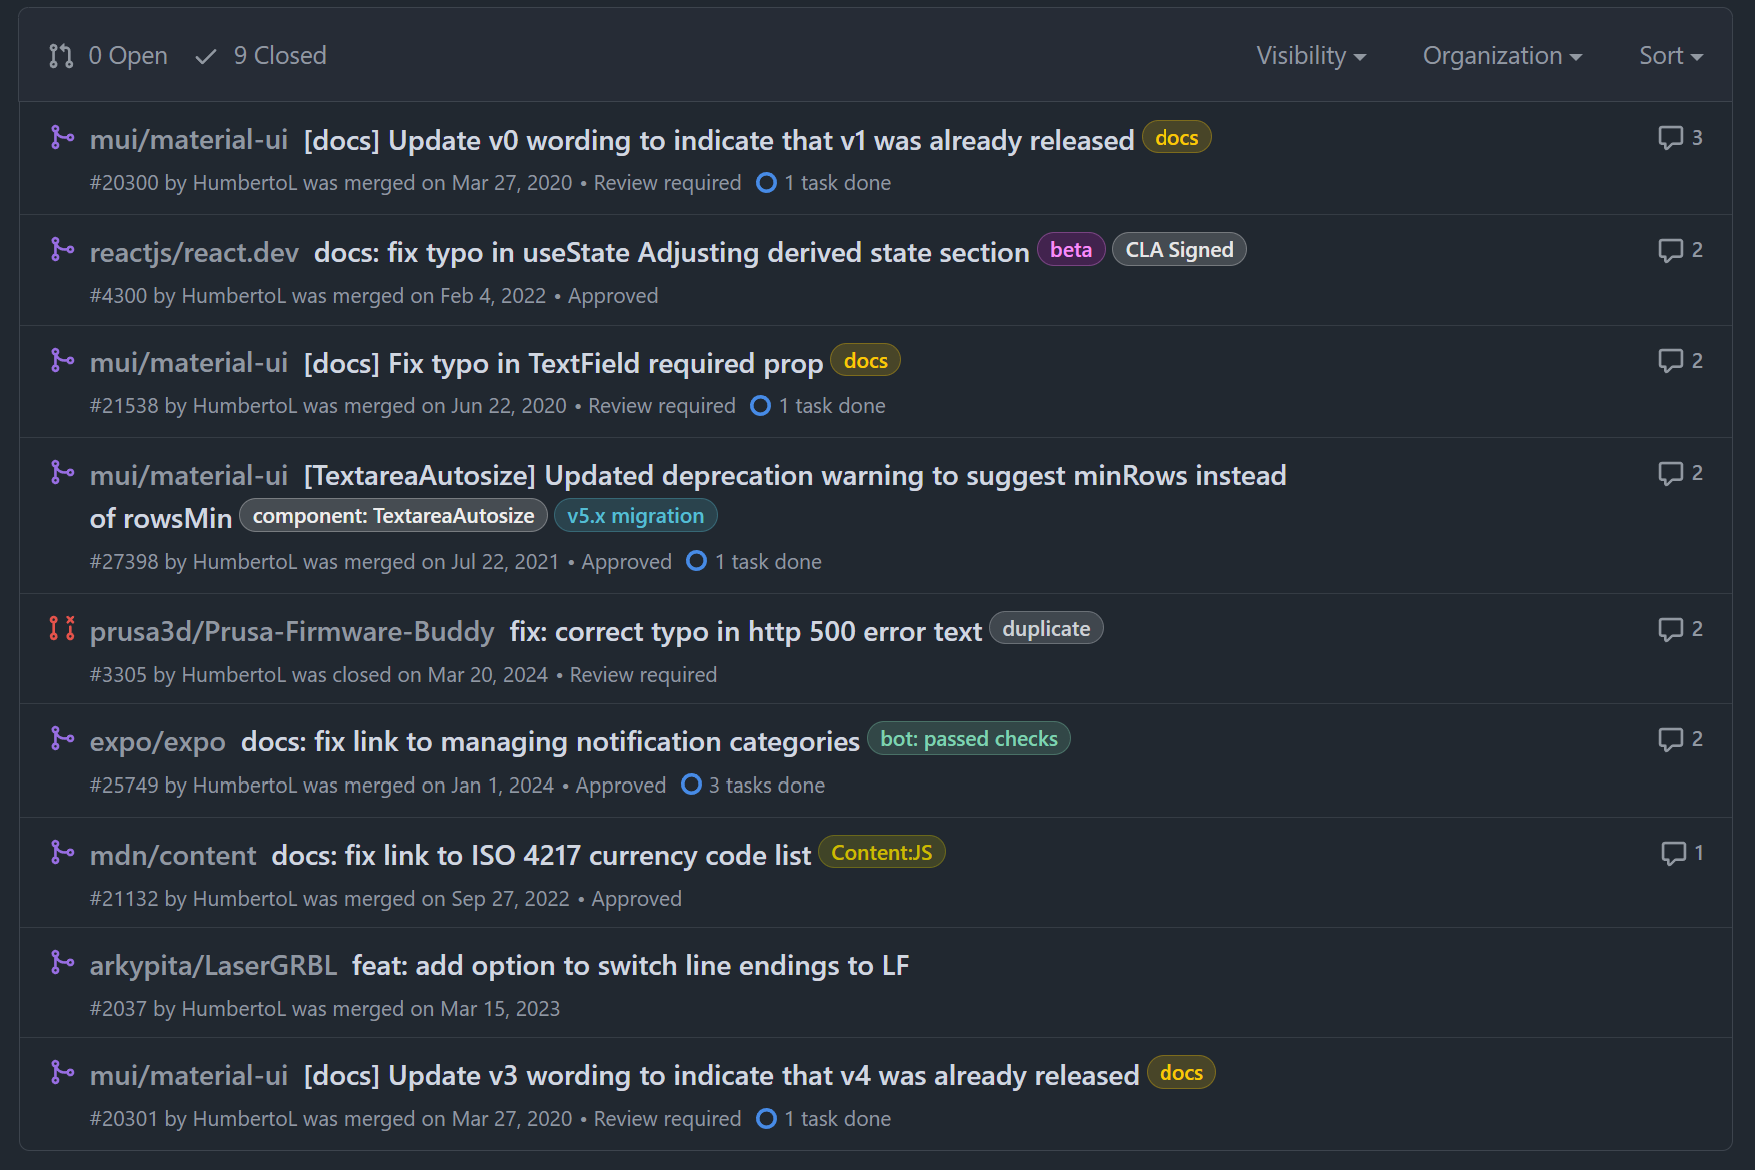
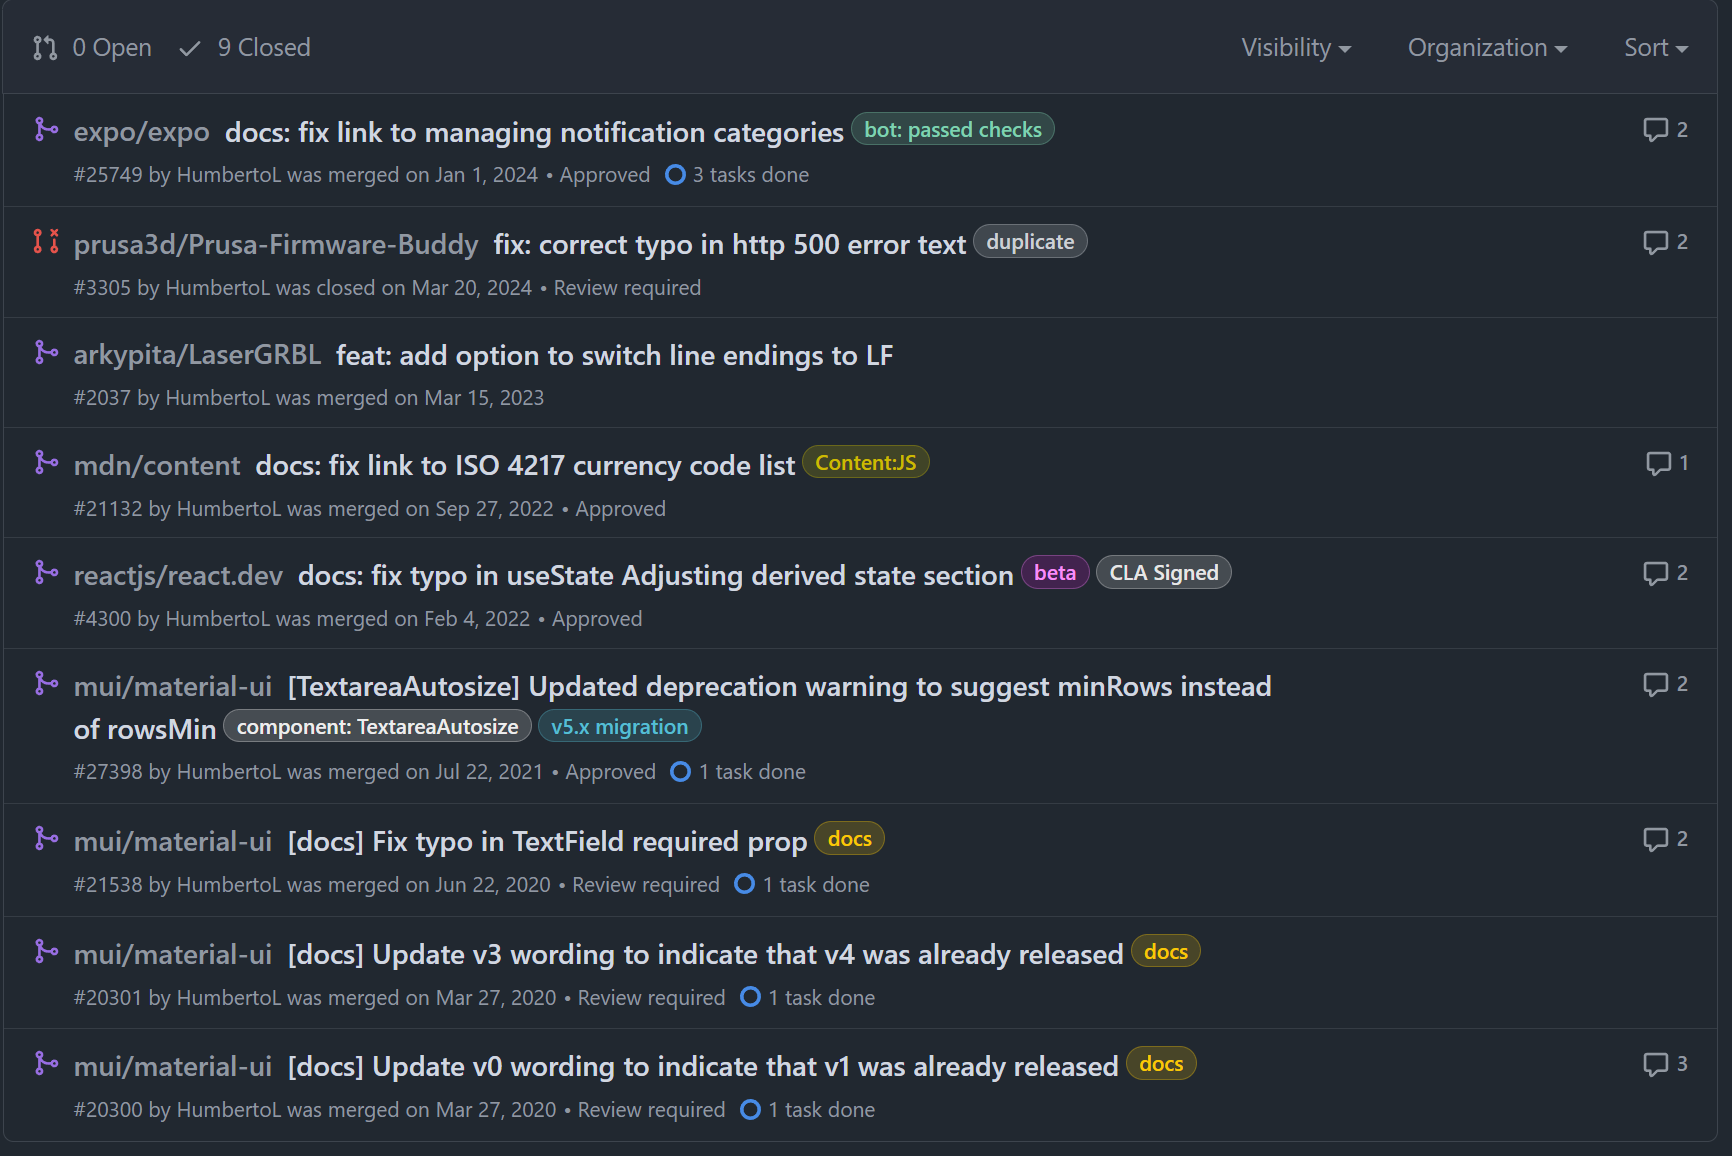
fix: update screenshot to better sort order

diff --git a/index.html b/index.html
@@ -123,7 +123,7 @@
               <div class="project-links">
                 <a
                   class="project-link"
-                  href="https://github.com/pulls?q=is%3Apr+author%3AHumbertoL+sort%3Acomments-desc+is%3Apublic+user%3Amui+user%3Amdn+user%3Aarkypita+user%3Areactjs+user%3Aexpo+user%3Aprusa3d+"
+                  href="https://github.com/pulls?q=is%3Apr+author%3AHumbertoL+user%3Amui+user%3Amdn+user%3Aarkypita+user%3Areactjs+user%3Aexpo+user%3Aprusa3d+sort%3Acreated-desc"
                   target="_blank"
                   rel="noopener noreferrer"
                   ><i class="fab fa-github" aria-hidden="true"></i>
